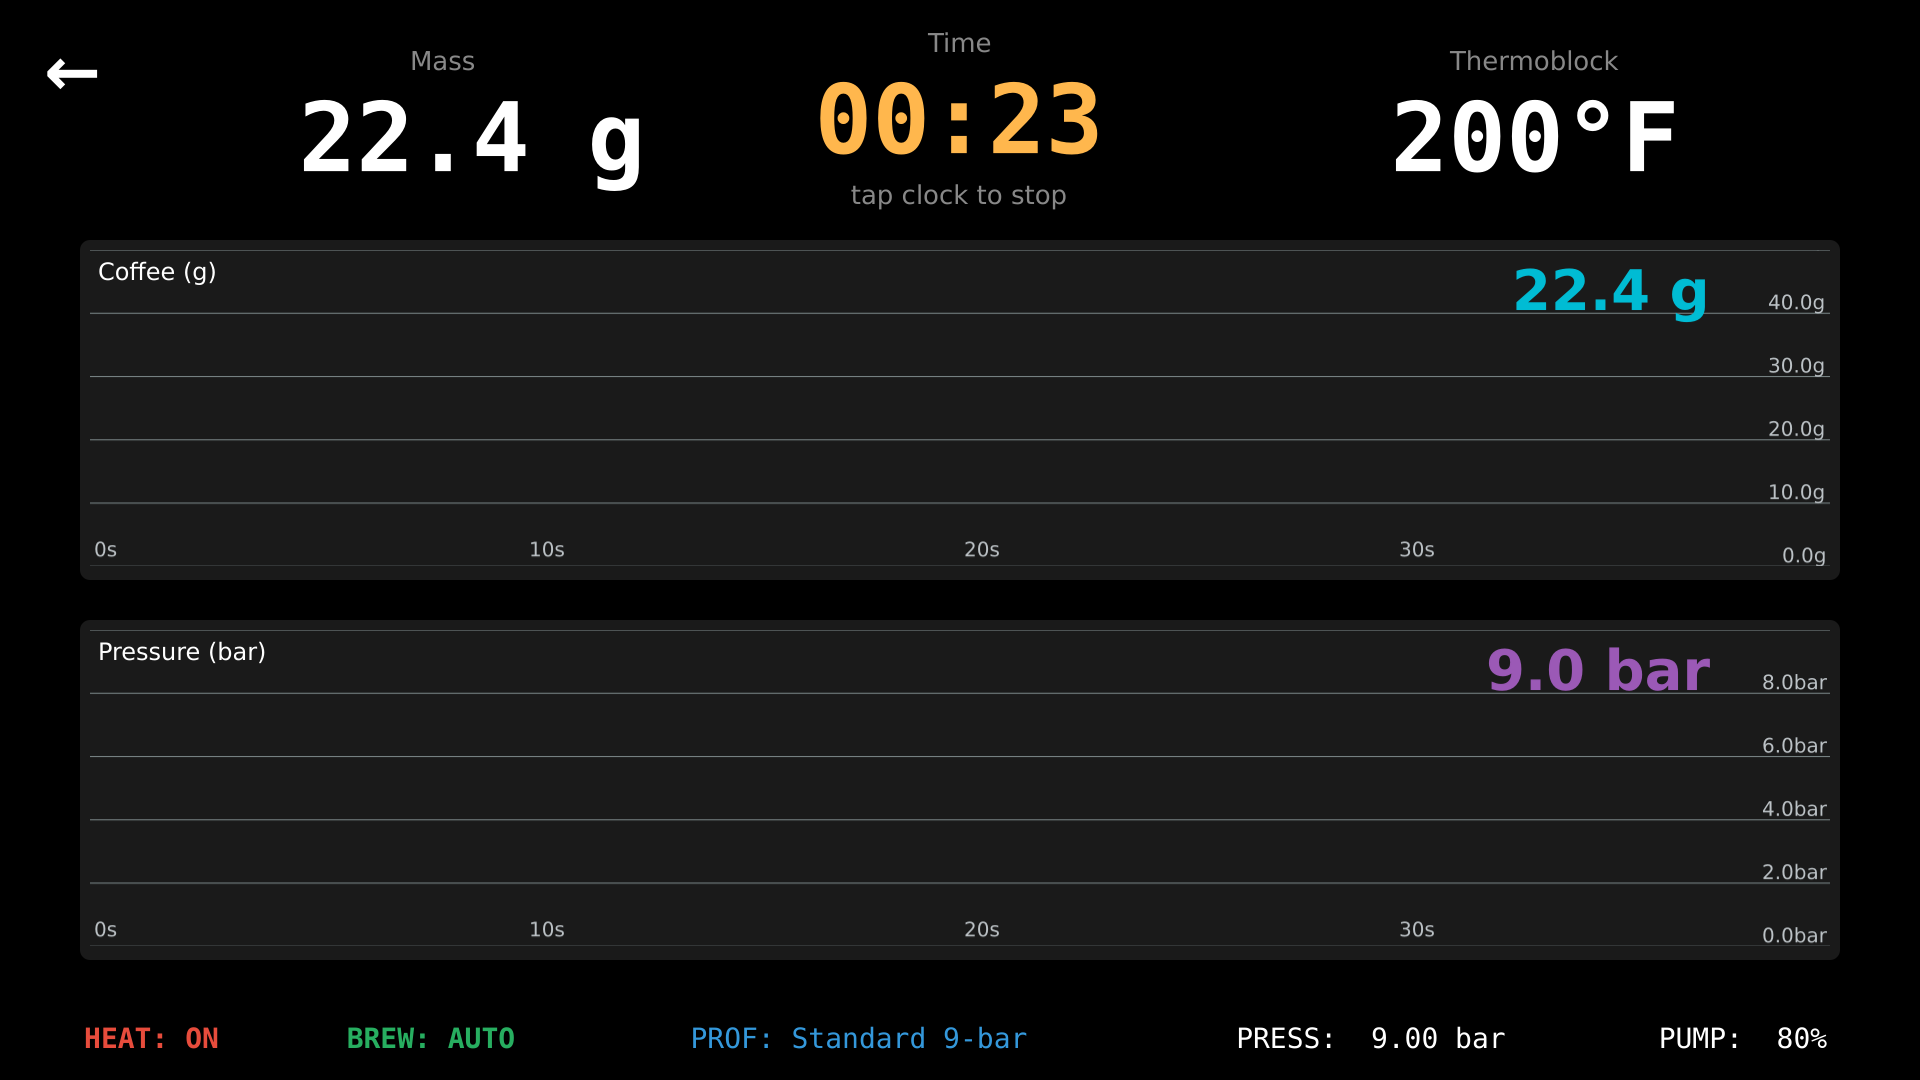
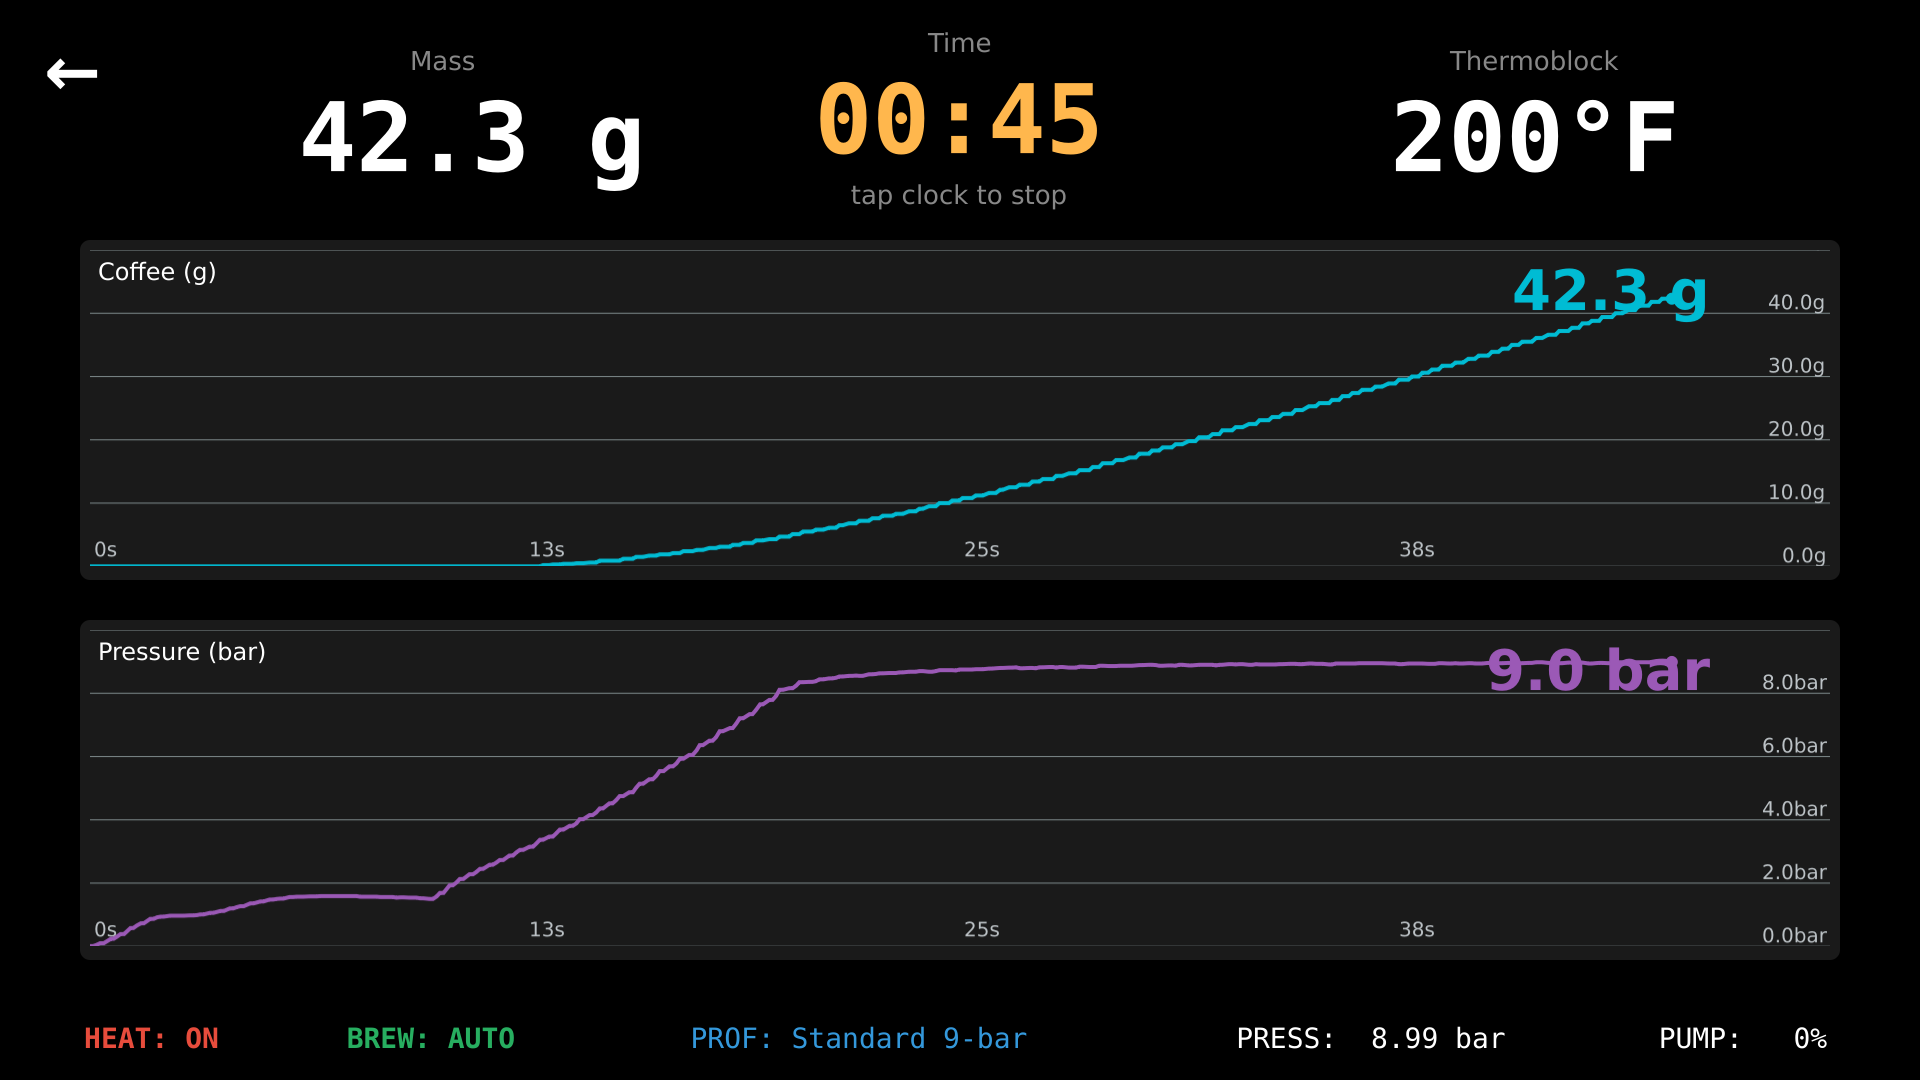
Screenshots: brew screen with a real recorded brew; trim to screens 1-6
Screen 06 now renders an actual historical shot (brew_2026-06-09_19-16-20:
46s, 9-bar, 42g) injected into the live charts — proof-of-concept for a
replay/brew-preview feature. Harness stops the mock feed after connect so
staged state sticks, and loads brew_logs JSON into coffee/pressure charts.
Dropped screens 7-10 (only 1-6 needed for design).

diff --git a/ui/source/_render_screens.py b/ui/source/_render_screens.py
@@ -1,16 +1,18 @@
-# Offscreen screenshot harness — renders every UI screen/state to PNG so the
-# real QML (not a mockup) can be dropped into a design tool. Run from ui/source:
-#   QT_QPA_PLATFORM=offscreen QT_QUICK_BACKEND=software python3 _render_screens.py [outdir]
+# Offscreen screenshot harness — renders the home + brew UI screens from the
+# REAL QML (not a mockup) to PNGs for design iteration. Screen 06 is rendered
+# with an ACTUAL historical brew (from brew_logs/) injected into the charts —
+# this doubles as a proof-of-concept for a "replay / brew preview" feature.
+#
+# Run from ui/source:
+#   QT_QPA_PLATFORM=offscreen python3 _render_screens.py [outdir] [brew_log.json]
 # Temporary tooling; safe to delete.
-import os, sys
+import os, sys, glob, json
 
 os.environ.setdefault("QT_QPA_PLATFORM", "offscreen")
 os.environ.setdefault("QT_QUICK_BACKEND", "software")
-# The offscreen plugin has no GPU context, so it rasterizes in software.
-# QtQuick.Shapes DO render in software, but their `layer.enabled` (FBO) does
-# not — a layered Shape is dropped entirely (gauge arcs vanish). We disable the
-# Shape layers at runtime before each grab so the arcs paint (loses only MSAA
-# antialiasing, irrelevant for design references).
+# Offscreen rasterizes in software. QtQuick.Shapes paint in software but their
+# layer.enabled FBO does not (gauge arcs vanish) — we disable those layers
+# before each grab (loses only MSAA antialiasing).
 
 import platform_shim
 platform_shim.apply_qt_env()
@@ -20,7 +22,7 @@ config.USE_MOCK_SERIAL = True   # never touch the real Teensy / live serial
 from PyQt6.QtGui import QGuiApplication
 from PyQt6.QtQml import (qmlRegisterType, QQmlApplicationEngine, QQmlExpression,
                          QQmlEngine, QQmlProperty)
-from PyQt6.QtCore import QUrl, QEventLoop, QTimer
+from PyQt6.QtCore import QUrl, QEventLoop, QTimer, QObject
 from PyQt6.QtQuick import QQuickWindow
 from PyQt6 import sip
 from qml_backend import CoffeeController
@@ -39,9 +41,6 @@ root = engine.rootObjects()[0]
 win = sip.cast(root, QQuickWindow)
 win.resize(960, 540)
 win.show()
-
-# The object's own creation context — this is where the QML ids (window,
-# stackView, connectionStatus, brewScreen, …) are registered.
 CTX = QQmlEngine.contextForObject(root)
 
 
@@ -51,30 +50,37 @@ def pump(ms):
     loop.exec()
 
 
-def qml(expr):
-    e = QQmlExpression(CTX, root, expr)
+def qml(expr, ctx=None, scope=None):
+    e = QQmlExpression(ctx or CTX, scope or root, expr)
     v = e.evaluate()
+    if isinstance(v, tuple):        # PyQt6 returns (value, isUndefined)
+        v = v[0]
     if e.hasError():
         print("QML ERR:", expr, "->", e.error().toString())
     return v
 
 
-from PyQt6.QtCore import QObject
-
-
 def disable_shape_layers():
-    # Turn off layer.enabled on every QtQuick Shape so the software renderer
-    # paints the arcs (FBO-backed layers are dropped in software).
-    n = 0
     for ch in root.findChildren(QObject):
         if ch.metaObject().className() == "QQuickShape":
             QQmlProperty.write(ch, "layer.enabled", False)
-            n += 1
-    return n
 
 
-# Baseline mock scene values, re-applied before every grab so incoming mock
-# telemetry can't overwrite the staged state.
+# ── Let the mock connect, then FREEZE its data feed so staged state sticks ────
+pump(600)
+ctrl = next((c for c in root.findChildren(QObject)
+             if c.metaObject().className() == "CoffeeController"), None)
+if ctrl is not None and hasattr(ctrl, "serial"):
+    try:
+        ctrl.serial.stop()
+        print("mock serial stopped")
+    except Exception as e:
+        print("could not stop mock serial:", e)
+else:
+    print("WARNING: controller not found; mock may overwrite staged state")
+pump(50)
+
+# Baseline scene values.
 BASE = [
     'connectionStatus.connected = true',
     'window.boilerPrimed = true',
@@ -90,67 +96,98 @@ BASE = [
     'window.currentWeight = 0.0',
     'window.currentPumpPower = 0.0',
     'window.scalesSettled = true',
+    'window.scalesTared = true',
+    'window.brewDisplayFrozen = false',
     'window.setpointPopup = ""',
     'window.flushActive = false',
     'window.steamActive = false',
     'window.currentState = "IDLE"',
 ]
+for ex in BASE:
+    qml(ex)
 
 
 def grab(name, extra=()):
-    pump(120)                       # let mock tick + any pending render settle
-    for ex in BASE:
-        qml(ex)
     for ex in extra:
-        qml(ex)                     # stage this shot (overrides BASE), synchronous
-    disable_shape_layers()          # let the gauge arcs paint in software
-    img = win.grabWindow()          # synchronous render+grab; no pump after staging
+        qml(ex)
+    disable_shape_layers()
+    pump(60)                        # settle bindings (mock is stopped — safe)
+    disable_shape_layers()
+    img = win.grabWindow()
     path = os.path.join(OUTDIR, name)
     img.save(path)
-    print("saved", path, img.width(), "x", img.height())
+    print("saved", path)
 
 
-# ── Home + overlays (initial item) ───────────────────────────────────────────
+# ── 01–04 Home + overlays ────────────────────────────────────────────────────
 grab("01_home_idle.png")
 grab("02_home_setpoint_brew.png",  ['window.setpointPopup = "brew"'])
+qml('window.setpointPopup = ""')
 grab("03_home_setpoint_steam.png", ['window.setpointPopup = "steam"'])
-grab("04_home_unprimed.png",       ['window.setpointPopup = ""', 'window.boilerPrimed = false'])
+qml('window.setpointPopup = ""')
+grab("04_home_unprimed.png",       ['window.boilerPrimed = false'])
+qml('window.boilerPrimed = true')
 
-# ── Brew screen: ready-to-start, then brewing ────────────────────────────────
+# ── 05 Brew screen, ready to start ───────────────────────────────────────────
 qml('stackView.push(brewScreen, StackView.Immediate)')
 grab("05_brew_ready.png", [
     'window.currentState = "HEATING_BREW"',
-    'window.scalesSettled = true',
     'window.brewTime = "00:00"',
     'window.brewTempActual = 93.0',
 ])
-grab("06_brew_brewing.png", [
-    'window.currentState = "BREWING"',
-    'window.brewTime = "00:23"',
-    'window.currentWeight = 22.4',
-    'window.currentPressure = 9.0',
-    'window.currentPumpPower = 80',
-    'window.brewTempActual = 93.2',
-])
 
-# ── Steam screen ─────────────────────────────────────────────────────────────
-qml('stackView.push(steamScreen, StackView.Immediate)')
-grab("07_steam_heating.png", [
-    'window.currentState = "HEATING_STEAM"',
-    'window.steamTempActual = 118.0',
-])
-grab("08_steam_ready.png", [
-    'window.currentState = "STEAMING"',
-    'window.steamActive = true',
-    'window.steamTempActual = 130.0',
-])
+# ── 06 Brew screen, BREWING, with a REAL historical brew on the charts ────────
+LOGS = os.path.join(SRC, "brew_logs")
+log_arg = sys.argv[2] if len(sys.argv) > 2 else "brew_2026-06-09_19-16-20.json"
+log_path = os.path.join(LOGS, log_arg)
+if not os.path.exists(log_path):
+    cands = sorted(glob.glob(os.path.join(LOGS, "*.json")))
+    log_path = cands[-1] if cands else None
 
-# ── Flush screen ─────────────────────────────────────────────────────────────
-qml('stackView.push(flushScreen, StackView.Immediate)')
-grab("09_flush.png", ['window.flushActive = true', 'window.currentState = "FLUSHING"'])
+if log_path:
+    rec = json.load(open(log_path))
+    samples = rec.get("samples", [])
+    coffee_pts = [{"time": s["t_s"], "weight": s["weight_g"]} for s in samples]
+    press_pts = [{"time": s["t_s"], "pressure": s["pressure_bar"]} for s in samples]
+    dur = rec.get("duration_s", samples[-1]["t_s"] if samples else 0)
+    final_w = rec.get("final_weight_g", 0) or 0
+    max_p = rec.get("max_pressure_bar", 0) or 0
+    last_p = samples[-1]["pressure_bar"] if samples else 0
+    mm, ss = int(dur) // 60, int(dur) % 60
+    print(f"brew log: {os.path.basename(log_path)} dur={dur:.0f}s n={len(samples)} "
+          f"finW={final_w} maxP={max_p}")
 
-# ── Settings screen ──────────────────────────────────────────────────────────
-qml('stackView.push(settingsScreen, StackView.Immediate)')
-grab("10_settings.png")
+    brew_item = qml('stackView.currentItem')
+    ctxB = QQmlEngine.contextForObject(brew_item)
+    coffee = qml('coffeeChart', ctxB, brew_item)
+    pressure = qml('pressureChart', ctxB, brew_item)
+    QQmlProperty.write(coffee, "dataPoints", coffee_pts)
+    QQmlProperty.write(pressure, "dataPoints", press_pts)
+    qml('coffeeChart.updateScale()', ctxB, brew_item)
+    qml('pressureChart.updateScale()', ctxB, brew_item)
+
+    # Stage window state (root scope), then repaint the charts (brew-item scope)
+    # so the big-numbers match, then grab — done explicitly because the chart
+    # ids live in the brew screen's context, not root.
+    for ex in [
+        'window.currentState = "BREWING"',
+        f'window.brewTime = "{mm:02d}:{ss:02d}"',
+        'window.brewDisplayFrozen = true',
+        f'window.frozenWeight = {final_w}',
+        f'window.frozenPressure = {last_p}',
+        f'window.currentWeight = {final_w}',
+        f'window.currentPressure = {last_p}',
+        'window.brewTempActual = 93.2',
+    ]:
+        qml(ex)
+    qml('coffeeChart.requestPaint()', ctxB, brew_item)
+    qml('pressureChart.requestPaint()', ctxB, brew_item)
+    disable_shape_layers()
+    pump(400)                       # let the Canvas render the curves
+    img = win.grabWindow()
+    img.save(os.path.join(OUTDIR, "06_brew_brewing.png"))
+    print("saved", os.path.join(OUTDIR, "06_brew_brewing.png"))
+else:
+    print("no brew logs found — skipping 06 real-data shot")
 
 print("DONE", OUTDIR)

diff --git a/ui/screenshots/README.md b/ui/screenshots/README.md
@@ -7,11 +7,12 @@ mockups. Drop them into a design tool for a superficial redesign pass.
 - **Resolution:** 1920×1080 (the UI is laid out at a logical 960×540; the grab
   is 2× device-pixel-ratio).
 - **Regenerate:** on the Pi, `cd ~/silvia-lever/ui/source && QT_QPA_PLATFORM=offscreen python3 _render_screens.py`
-  then `pscp` the `screenshots/` folder back. Edit the staged property values /
-  scenarios at the bottom of the harness to taste.
-- Gauges are `QtQuick.Shapes`; the harness disables their FBO `layer` so the
-  arcs paint under the software renderer (costs only MSAA antialiasing — the
-  live machine renders them smooth on the GPU).
+  then `pscp` the `screenshots/` folder back. Optional 2nd arg = a brew-log
+  filename to feed screen 06.
+- The harness stops the mock serial feed after connect so staged state sticks,
+  and disables the gauges' FBO `layer` so the `QtQuick.Shapes` arcs paint under
+  the software renderer (costs only MSAA antialiasing — the live machine
+  renders them smooth on the GPU).
 
 | File | Screen / state |
 |------|----------------|
@@ -20,11 +21,10 @@ mockups. Drop them into a design tool for a superficial redesign pass.
 | `03_home_setpoint_steam.png` | Home + steam-boiler setpoint popup |
 | `04_home_unprimed.png` | Home with boiler not primed (PRIME button glowing) |
 | `05_brew_ready.png` | Brew screen, HEATING_BREW — "tap to start" |
-| `06_brew_brewing.png` | Brew screen, BREWING — amber clock "tap clock to stop", live charts |
-| `07_steam_heating.png` | Steam screen, HEATING_STEAM |
-| `08_steam_ready.png` | Steam screen, STEAMING |
-| `09_flush.png` | Flush screen, flushing |
-| `10_settings.png` | Settings (temp setpoints, scale TARE/CAL, PID AUTOTUNE) — currently still °C, and unreachable until a re-entry gesture is wired |
+| `06_brew_brewing.png` | Brew screen, BREWING — **real historical brew** on the charts (`brew_2026-06-09_19-16-20`: 46 s, 9-bar shot, 42 g), amber clock "tap clock to stop" |
 
-> Note: the home/brew screens display °F; the settings screen is still °C
-> (it's not reachable in normal use yet — see CHANGELOG TODO).
+Screen 06's charts are a real recorded shot replayed from `brew_logs/` — this is
+also the proof-of-concept for a future "replay / brew preview" feature (render a
+saved brew's weight+pressure curves on the brew chart).
+
+> All shown screens display °F.
